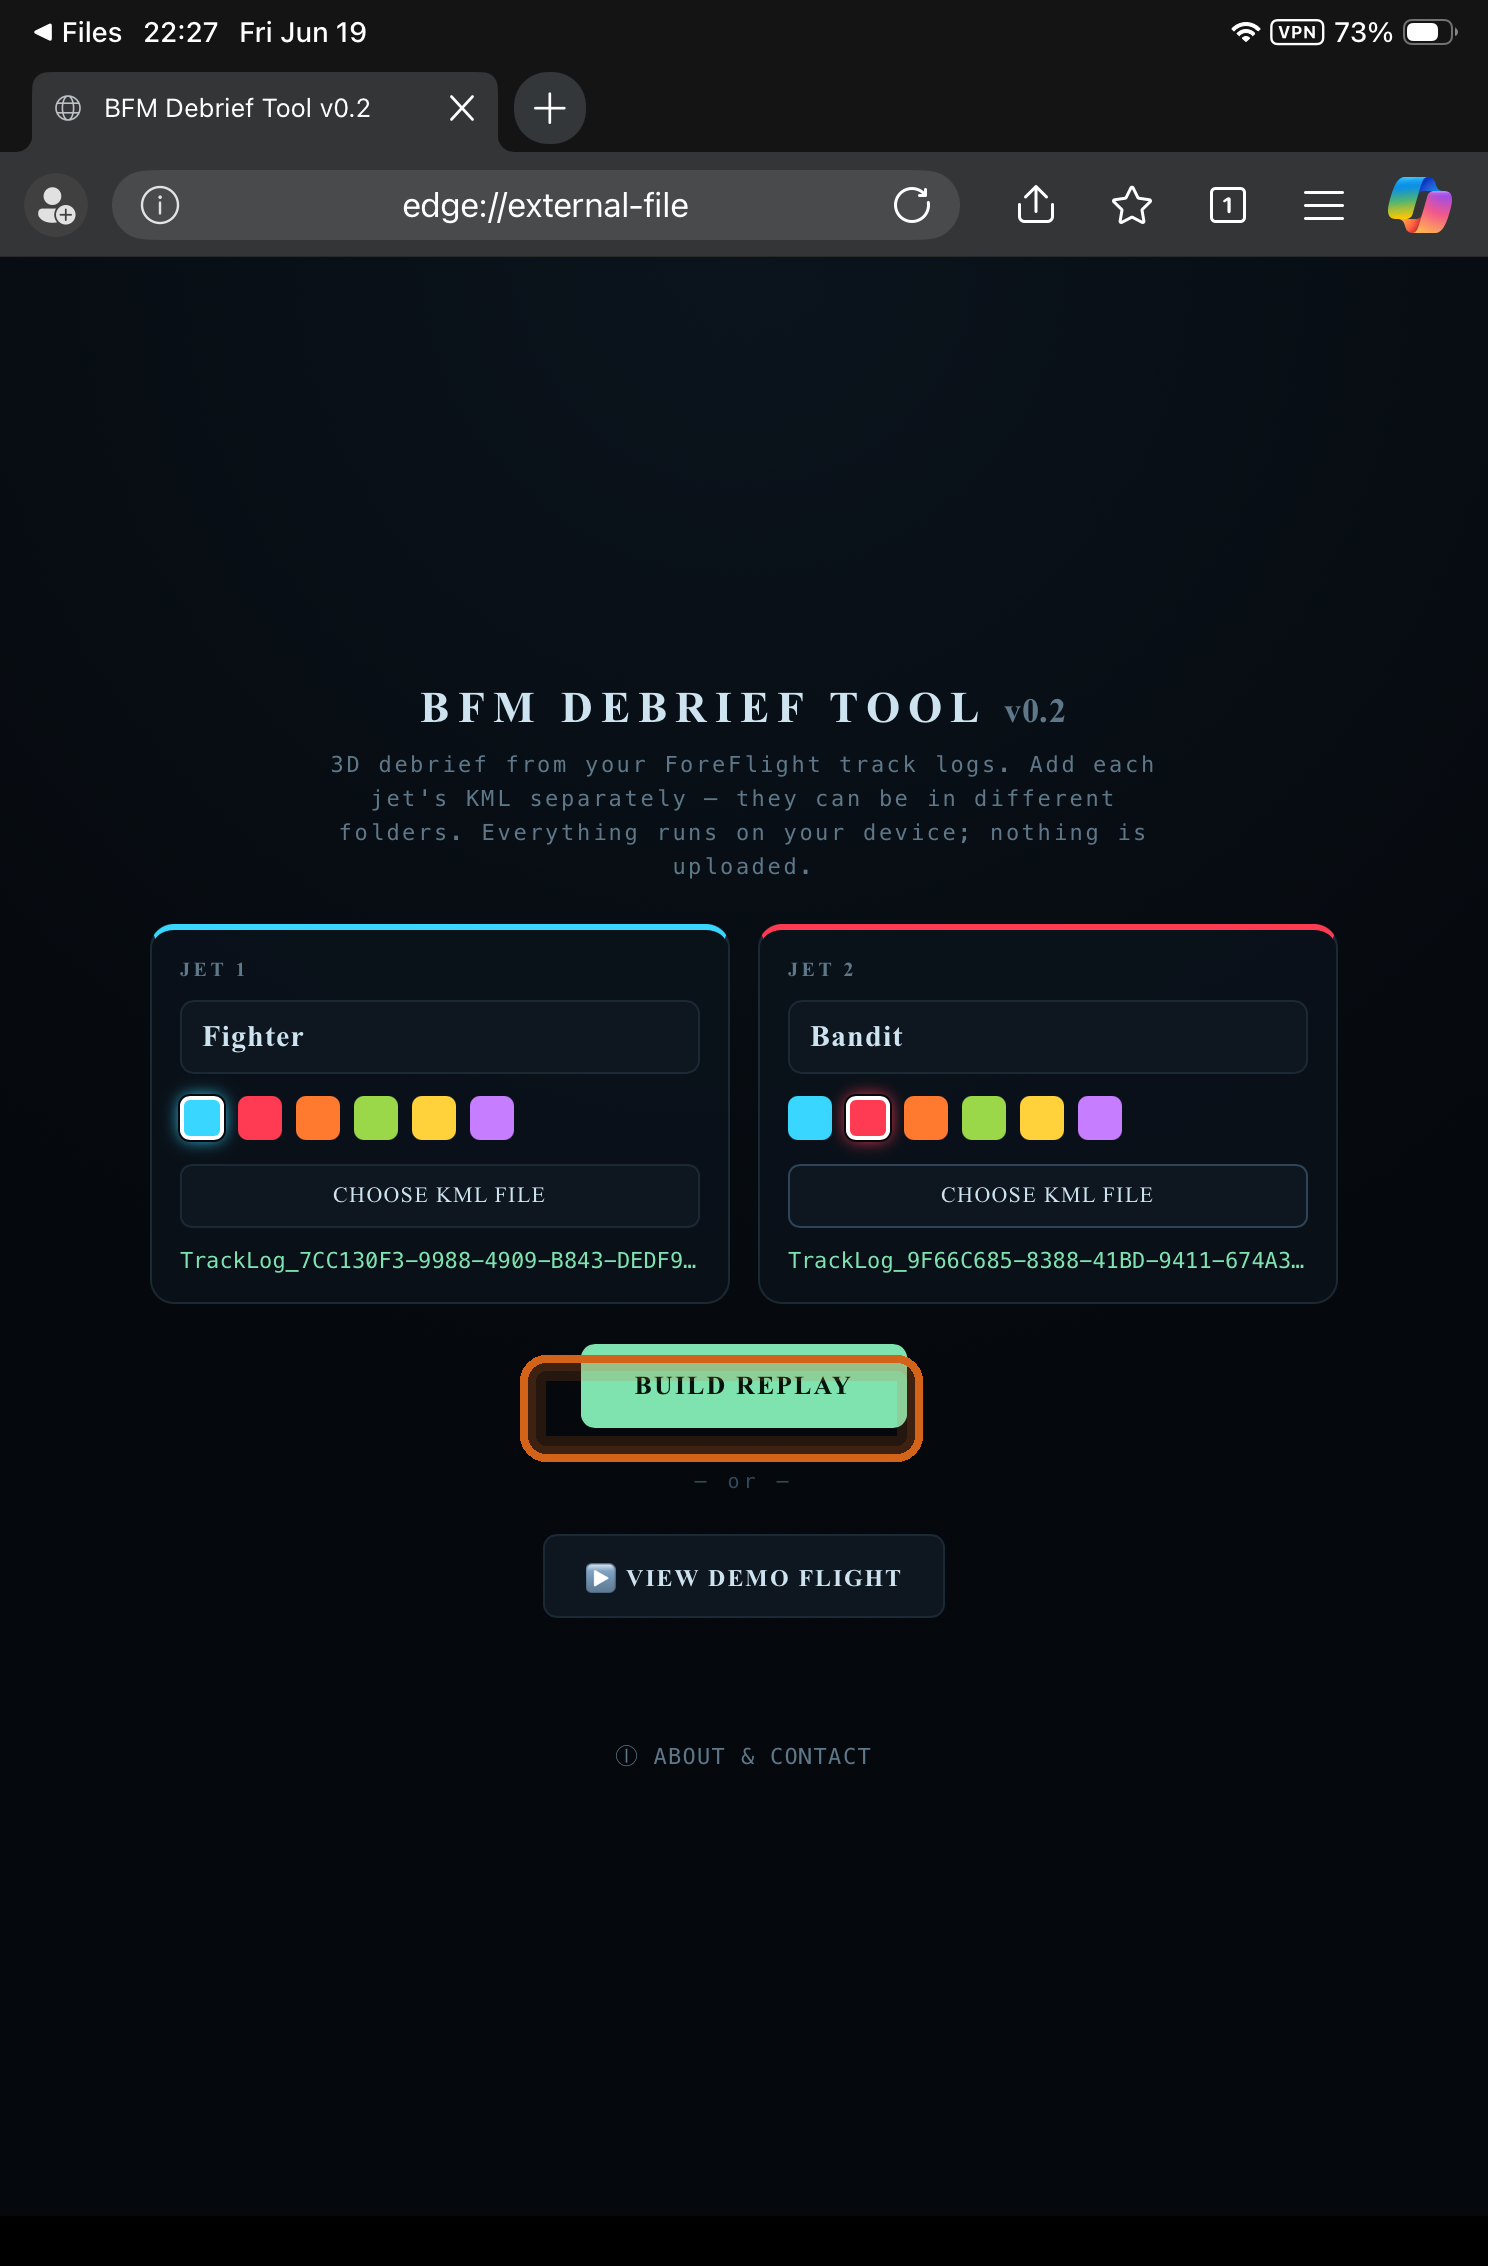
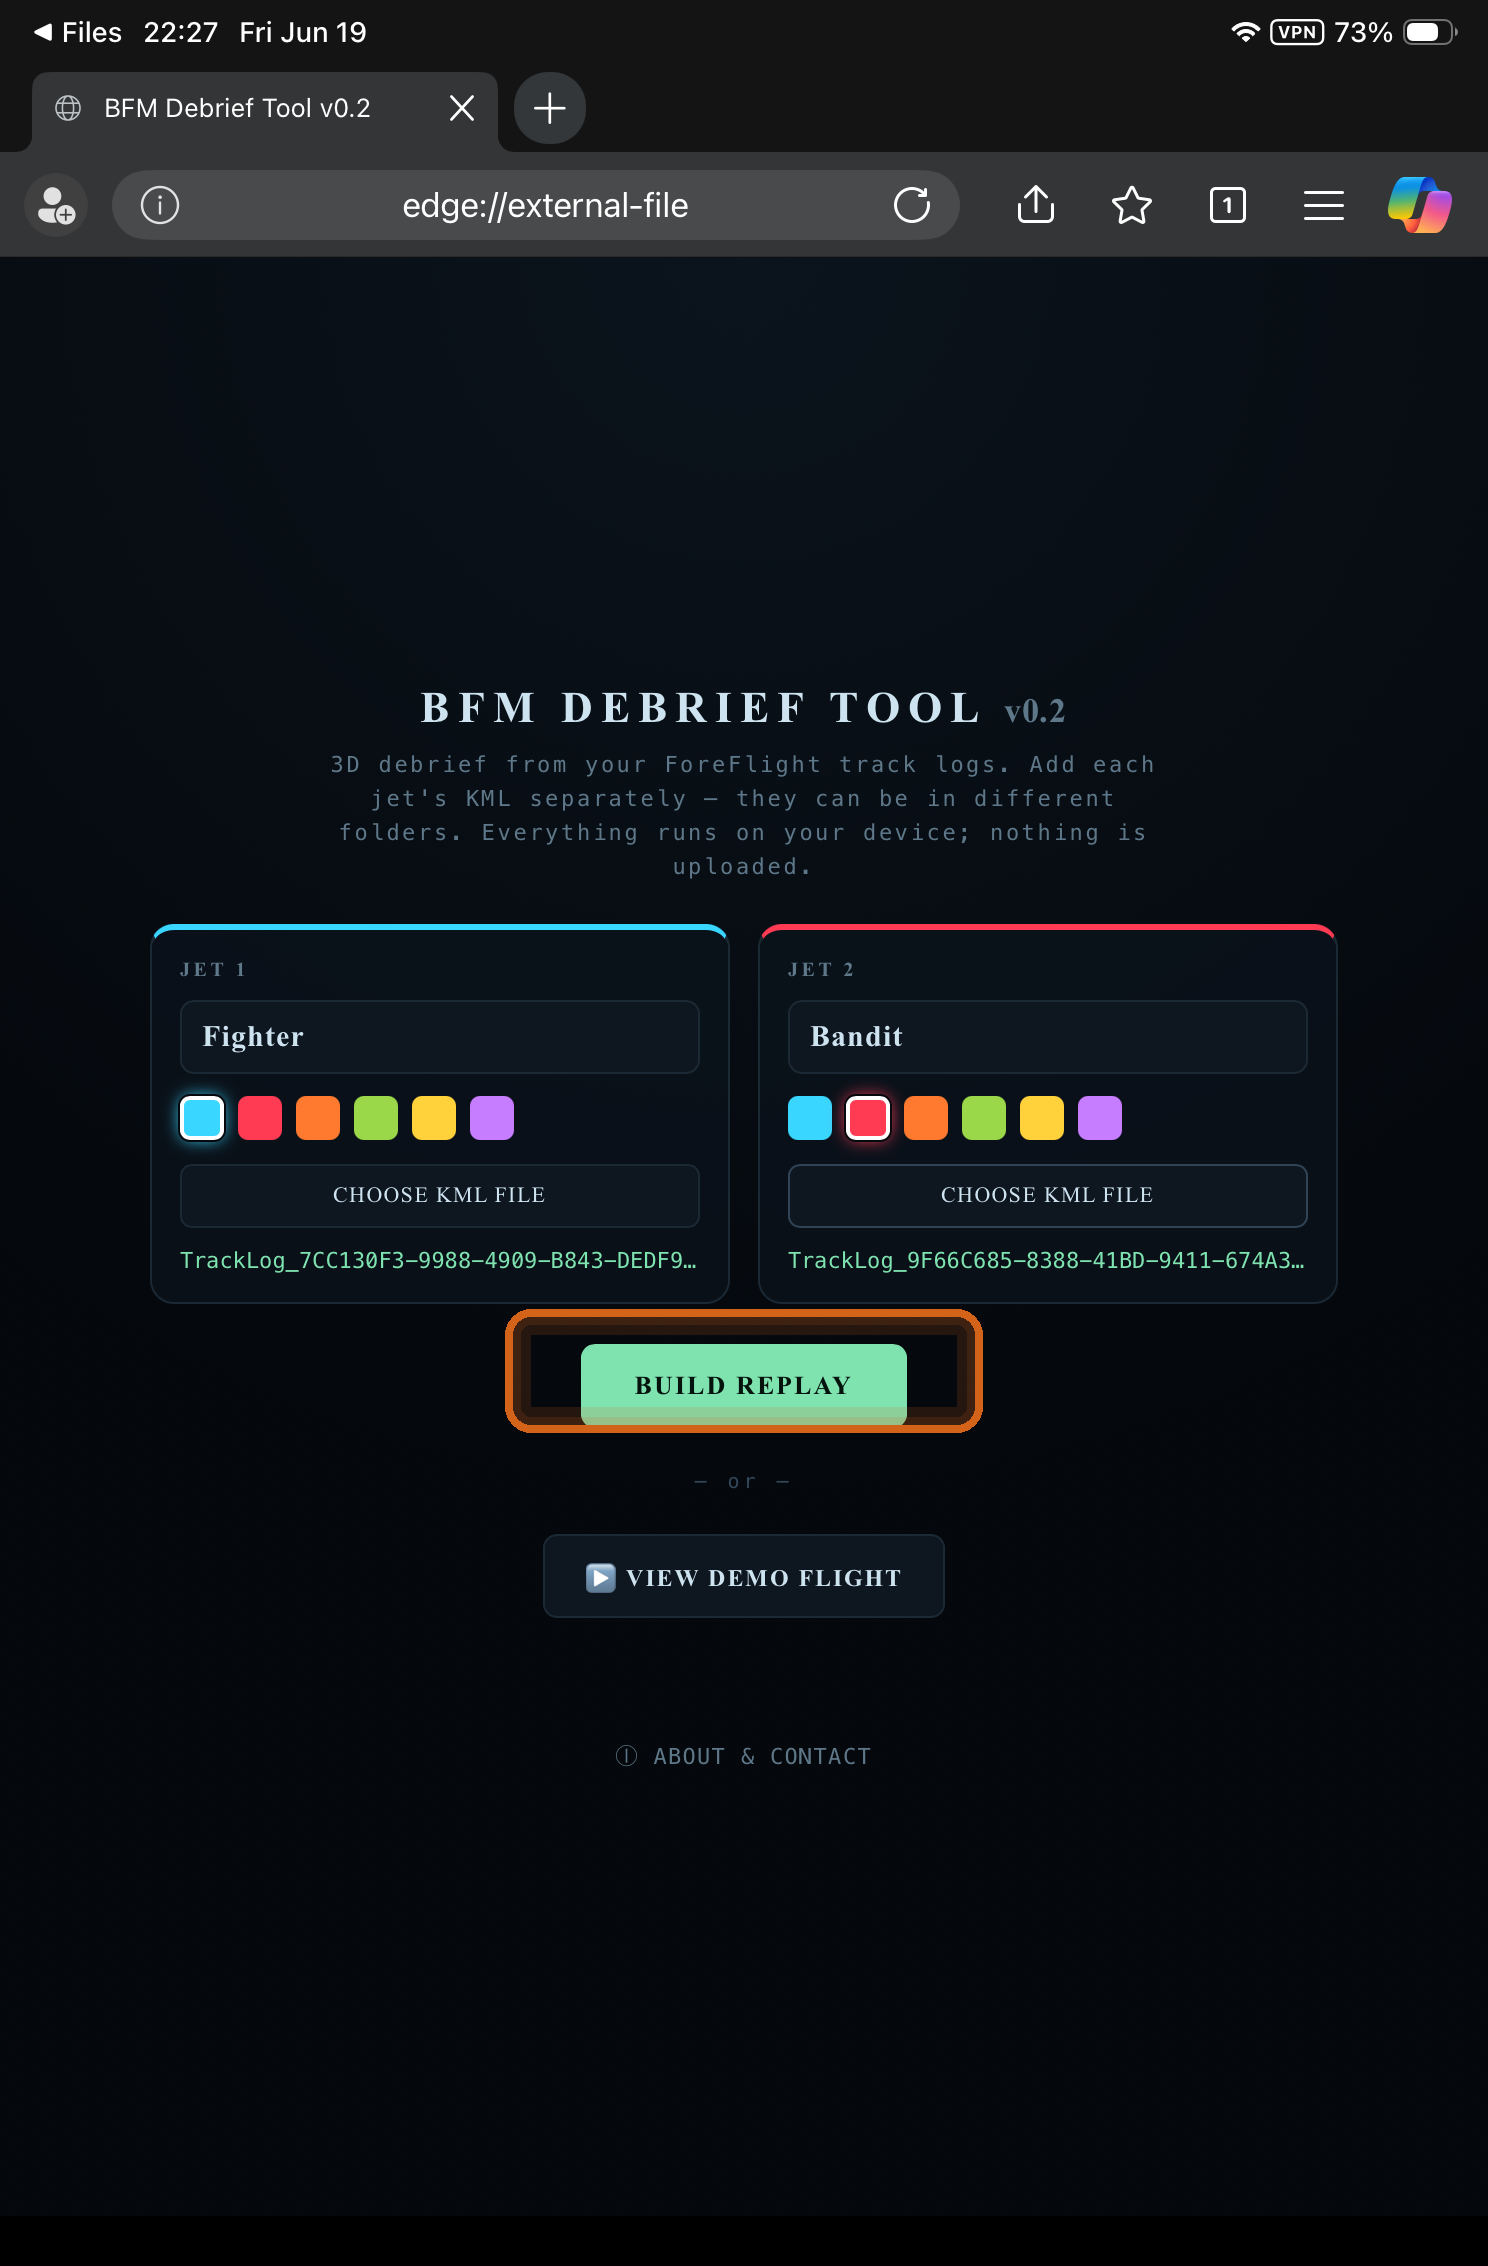
How-to: fix start-screen callouts; document AirDrop path for KMLs
- 11 (start screen) now uses IMG_0053 (the in-Edge screen with color
  swatches) to match the loaded shot, with the cards box recomputed for
  that layout; tighten the Build replay box on 13.
- Step 5: split the final export step — the host iPad uses Save to Files,
  the other jet AirDrops its KML straight over (no save needed). Box both
  AirDrop and Save to Files in the share-sheet screenshot and update the
  caption/note accordingly.

Claude-Session: https://claude.ai/code/session_01D9wzfYyQzRRUeZCnZnahV8

Changed region(s): [[0.3401, 0.556, 0.6801, 0.6487]]

diff --git a/howto/howto.html b/howto/howto.html
@@ -154,7 +154,7 @@
 <!-- ============ STEP 5 ============ -->
 <section class="step">
   <h2><span class="n">5</span> Export each jet’s track log from ForeFlight</h2>
-  <div class="lead">You’ll export <b>one KML per aircraft</b>, straight from ForeFlight on the iPad. Repeat for both jets.</div>
+  <div class="lead">Both jets’ logs need to land on the <b>one iPad that will run the tool</b>. Export each from ForeFlight the same way — only the final step differs.</div>
   <div class="note tip"><b>Before you fly:</b> in ForeFlight <b>Settings → Track Log</b>, turn on <b>Enable Start/Stop Control</b> and <b>Enable Auto Start/Stop</b> so every hop is recorded automatically.</div>
   <div class="shot">Screenshot 06</div>
   <figure><img src="screenshots/05-ff-enable-tracklog.png" alt="Screenshot 06 — ForeFlight Track Log settings with start/stop recording enabled">
@@ -163,7 +163,12 @@
     <li>In ForeFlight, open the menu and tap <b>Track Logs</b>.</li>
     <li>Pick the flight you want by <b>date</b> from the list.</li>
     <li>Tap the <b>Share</b> icon (top right), then <b>Open KML in…</b>.</li>
-    <li>In the share sheet, tap <b>Save to Files</b> and choose a folder you’ll remember.</li>
+    <li>In the share sheet, finish one of two ways:
+      <ul>
+        <li><b>On the iPad that will run the tool</b> — tap <b>Save to Files</b> and pick a folder you’ll remember.</li>
+        <li><b>From the other jet’s iPad</b> — tap <b>AirDrop</b> and send the KML straight to the host iPad. No need to save it first; just <b>Accept</b> it on the host iPad.</li>
+      </ul>
+    </li>
   </ol>
   <div class="figrow">
     <figure><img src="screenshots/06-ff-open-tracklogs.png" alt="Screenshot 07 — opening Track Logs from the ForeFlight menu">
@@ -177,9 +182,9 @@
     <figure><img src="screenshots/09-ff-open-kml-in.png" alt="Screenshot 10 — the ForeFlight Send To menu with Open KML in selected">
       <figcaption>Choose <b>Open KML in…</b>.</figcaption></figure>
   </div>
-  <figure><img src="screenshots/10-ff-save-to-files.png" alt="Screenshot 11 — the iOS share sheet with Save to Files selected for the KML">
-    <figcaption>Tap <b>Save to Files</b> to store the <code>.kml</code>.</figcaption></figure>
-  <div class="note"><b>Do this for both jets.</b> Each aircraft’s log is separate — they can come from different iPads and live in different folders. You’ll pick each file individually in the next step.</div>
+  <figure><img src="screenshots/10-ff-save-to-files.png" alt="Screenshot 11 — the iOS share sheet showing AirDrop and Save to Files">
+    <figcaption>Same share sheet, two options: <b>AirDrop</b> (top) to send the <code>.kml</code> to the host iPad, or <b>Save to Files</b> (bottom) to keep it on this one.</figcaption></figure>
+  <div class="note"><b>Goal: both KMLs on the host iPad.</b> One pilot saves their own log to Files; the other AirDrops theirs over. The files can come from different iPads and folders — you’ll pick each one individually in the next step.</div>
 </section>
 
 <!-- ============ STEP 6 ============ -->

diff --git a/howto/annotate_screenshots.py b/howto/annotate_screenshots.py
@@ -26,11 +26,12 @@ TARGETS = [
     ("IMG_0038.PNG", "07-ff-pick-flight.png",     [(0.0, 0.147, 0.43, 0.215)]),
     ("IMG_0037.PNG", "08-ff-export-share.png",    [(0.90, 0.035, 0.995, 0.075)]),
     ("IMG_0039.PNG", "09-ff-open-kml-in.png",     [(0.685, 0.115, 0.875, 0.205)]),
-    ("IMG_0040.PNG", "10-ff-save-to-files.png",   [(0.505, 0.282, 0.61, 0.372)]),
-    ("IMG_0050.PNG", "11-start-screen.png",   [(0.085, 0.42, 0.86, 0.57)]),
+    # two options in the same share sheet: AirDrop (top) and Save to Files (bottom)
+    ("IMG_0040.PNG", "10-ff-save-to-files.png",   [(0.515, 0.145, 0.625, 0.225), (0.505, 0.282, 0.61, 0.372)]),
+    ("IMG_0053.PNG", "11-start-screen.png",   [(0.07, 0.40, 0.92, 0.58)]),
     # replay / loaded shots — clean overviews, single callout where there's a next action
     ("IMG_0056.PNG", "12-replay-demo.png",    []),
-    ("IMG_0057.PNG", "13-start-loaded.png",   [(0.35, 0.598, 0.62, 0.645)]),
+    ("IMG_0057.PNG", "13-start-loaded.png",   [(0.34, 0.578, 0.66, 0.632)]),
     ("IMG_0058.PNG", "14-replay-loaded.png",  []),
 ]
 